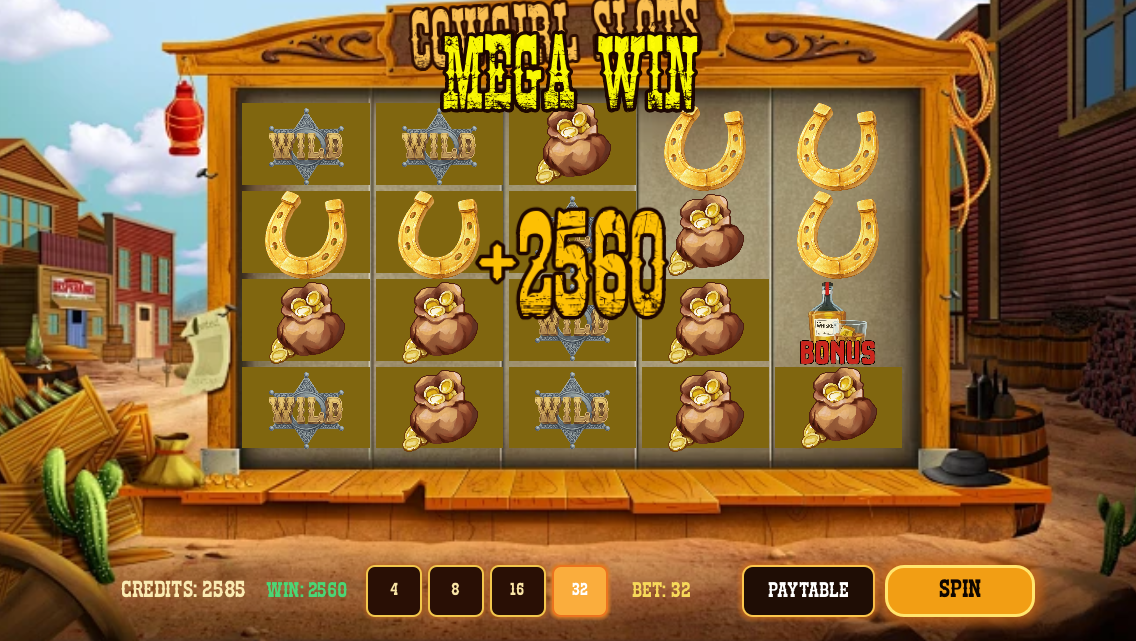
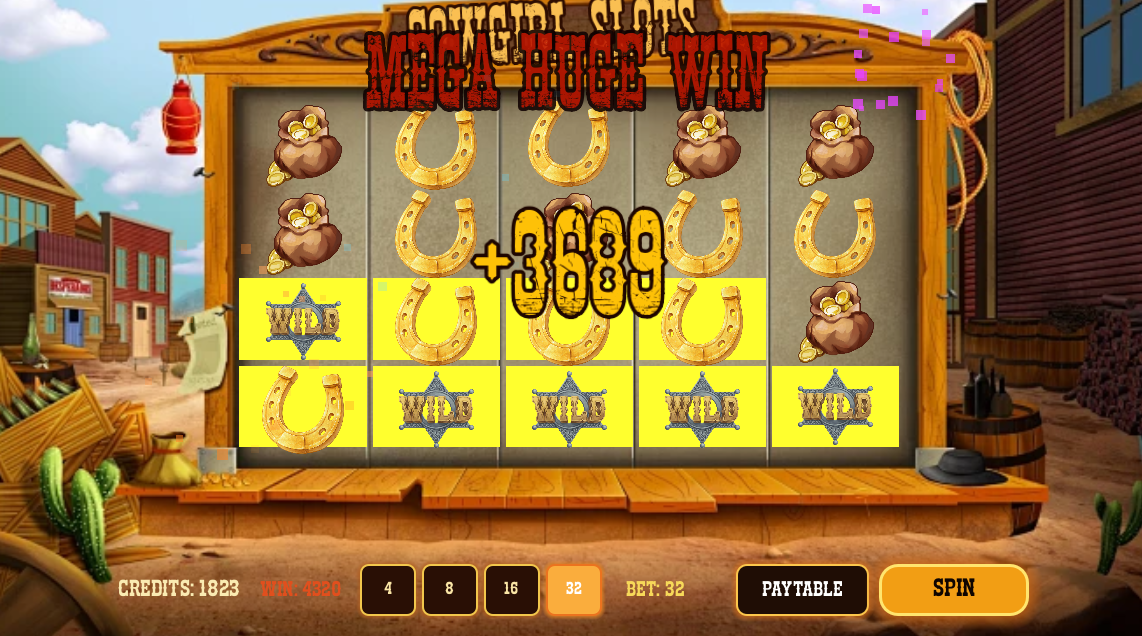
more dopamine and always on

diff --git a/README.md b/README.md
@@ -12,12 +12,12 @@ Tragaperras amb bonuses dinamics i tematica del oest.
 ## Screenshots
 
 ### Slots 
-![Main Interface](https://via.placeholder.com/800x400?text=Main+Interface)
+![Menu Screenshot](Goti/screenshots/slot.png)
 
-### Ruleta Bonuses
-![Settings](https://via.placeholder.com/800x400?text=Settings+Panel)
+### Wins
+![Settings](Goti/screenshots/win.png)
 
-### Plinko
+### Bonuses
 ![Mobile](https://via.placeholder.com/400x600?text=Mobile+View)
 
 ## Features
